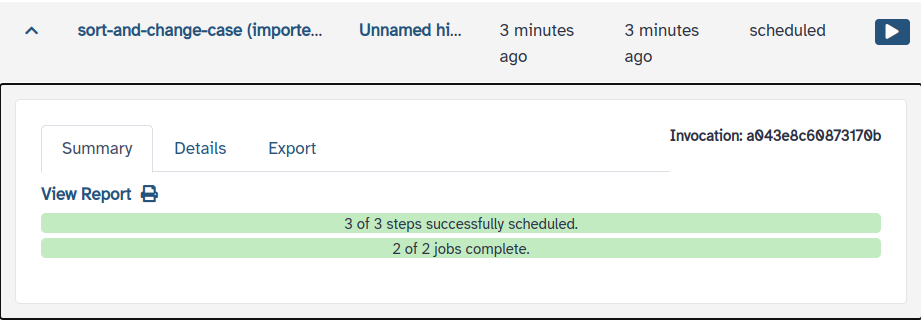
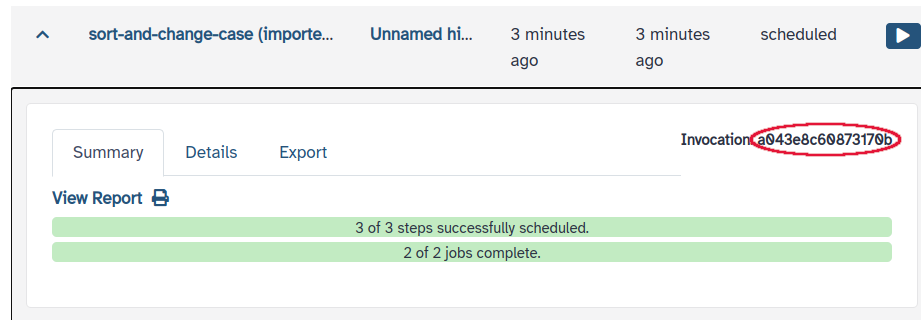
some tweaks for test generation guide

diff --git a/docs/galaxy-best-practices/index.md b/docs/galaxy-best-practices/index.md
@@ -35,17 +35,23 @@ repo2rocrate --repo-url https://github.com/iwc-workflows/parallel-accession-down
 
 ## Generating tests for your workflow
 
-What if you only have a workflow, but you don't have the test layout yet? You can use Planemo to generate it. As an example we will use this [simple workflow](https://github.com/crs4/life_monitor/blob/50cdb790ff125613aa07e70cb439e3a36b82d0bf/interaction_experiments/workflow_examples/galaxy/sort-and-change-case/sort-and-change-case.ga), which has only two steps: it sorts the input lines and changes them to upper case. Follow these steps to generate a test layout for it:
+What if you only have a workflow, but you don't have the test layout yet? You can use Planemo to generate it.
 
- * [Download the workflow](https://raw.githubusercontent.com/crs4/life_monitor/50cdb790ff125613aa07e70cb439e3a36b82d0bf/interaction_experiments/workflow_examples/galaxy/sort-and-change-case/sort-and-change-case.ga).
- * [Download an input file](https://raw.githubusercontent.com/crs4/life_monitor/50cdb790ff125613aa07e70cb439e3a36b82d0bf/interaction_experiments/workflow_examples/galaxy/sort-and-change-case/input.bed).
+```
+pip install planemo
+```
+
+As an example we will use this [simple workflow](https://github.com/crs4/life_monitor/blob/50cdb790ff125613aa07e70cb439e3a36b82d0bf/interaction_experiments/workflow_examples/galaxy/sort-and-change-case/sort-and-change-case.ga), which has only two steps: it sorts the input lines and changes them to upper case. Follow these steps to generate a test layout for it:
+
+ * Download [the workflow](https://raw.githubusercontent.com/crs4/life_monitor/50cdb790ff125613aa07e70cb439e3a36b82d0bf/interaction_experiments/workflow_examples/galaxy/sort-and-change-case/sort-and-change-case.ga) to a `sort-and-change-case.ga` file.
+ * Download [this input dataset](https://raw.githubusercontent.com/crs4/life_monitor/50cdb790ff125613aa07e70cb439e3a36b82d0bf/interaction_experiments/workflow_examples/galaxy/sort-and-change-case/input.bed) to an `input.bed` file.
  * Upload the workflow to Galaxy (e.g., [Galaxy Europe](https://usegalaxy.eu/)): from the upper menu, click on "Workflow" > "Import" > "Browse", choose `sort-and-change-case.ga` and then click "Import workflow".
- * Start a new history (click on the "+" button on the History panel to the right)
+ * Start a new history: click on the "+" button on the History panel to the right.
  * Upload the input dataset to the new history: on the left panel, go to "Upload Data" > "Choose local files" and select `input.bed`, then click "Start" > "Close".
  * Wait for the file to finish uploading (i.e., for the loading circle on the dataset's line in the history to disappear).
  * Run the workflow on the input dataset: click on "Workflow" in the upper menu, locate `sort-and-change-case`, and click on the play button to the right. The input slot should be already filled with `input.bed` since we started in a new history. Click on "Run Workflow" on the upper right of the center panel.
  * Wait for the workflow execution to finish.
- * On the upper menu, go to "User" > "Workflow Invocations", click on the invocation corresponding to the workflow just run and copy the invocation's ID. In my case it says "Invocation: a043e8c60873170b" on the right: the ID you want is `a043e8c60873170b`.
+ * On the upper menu, go to "User" > "Workflow Invocations", click on the invocation corresponding to the workflow just run and copy the invocation's ID. In my case it says "Invocation: a043e8c60873170b" on the right, where `a043e8c60873170b` is the ID.
  
 <img alt="Workflow Invocation" src="img/workflow-invocation.png" width="600" />
 
